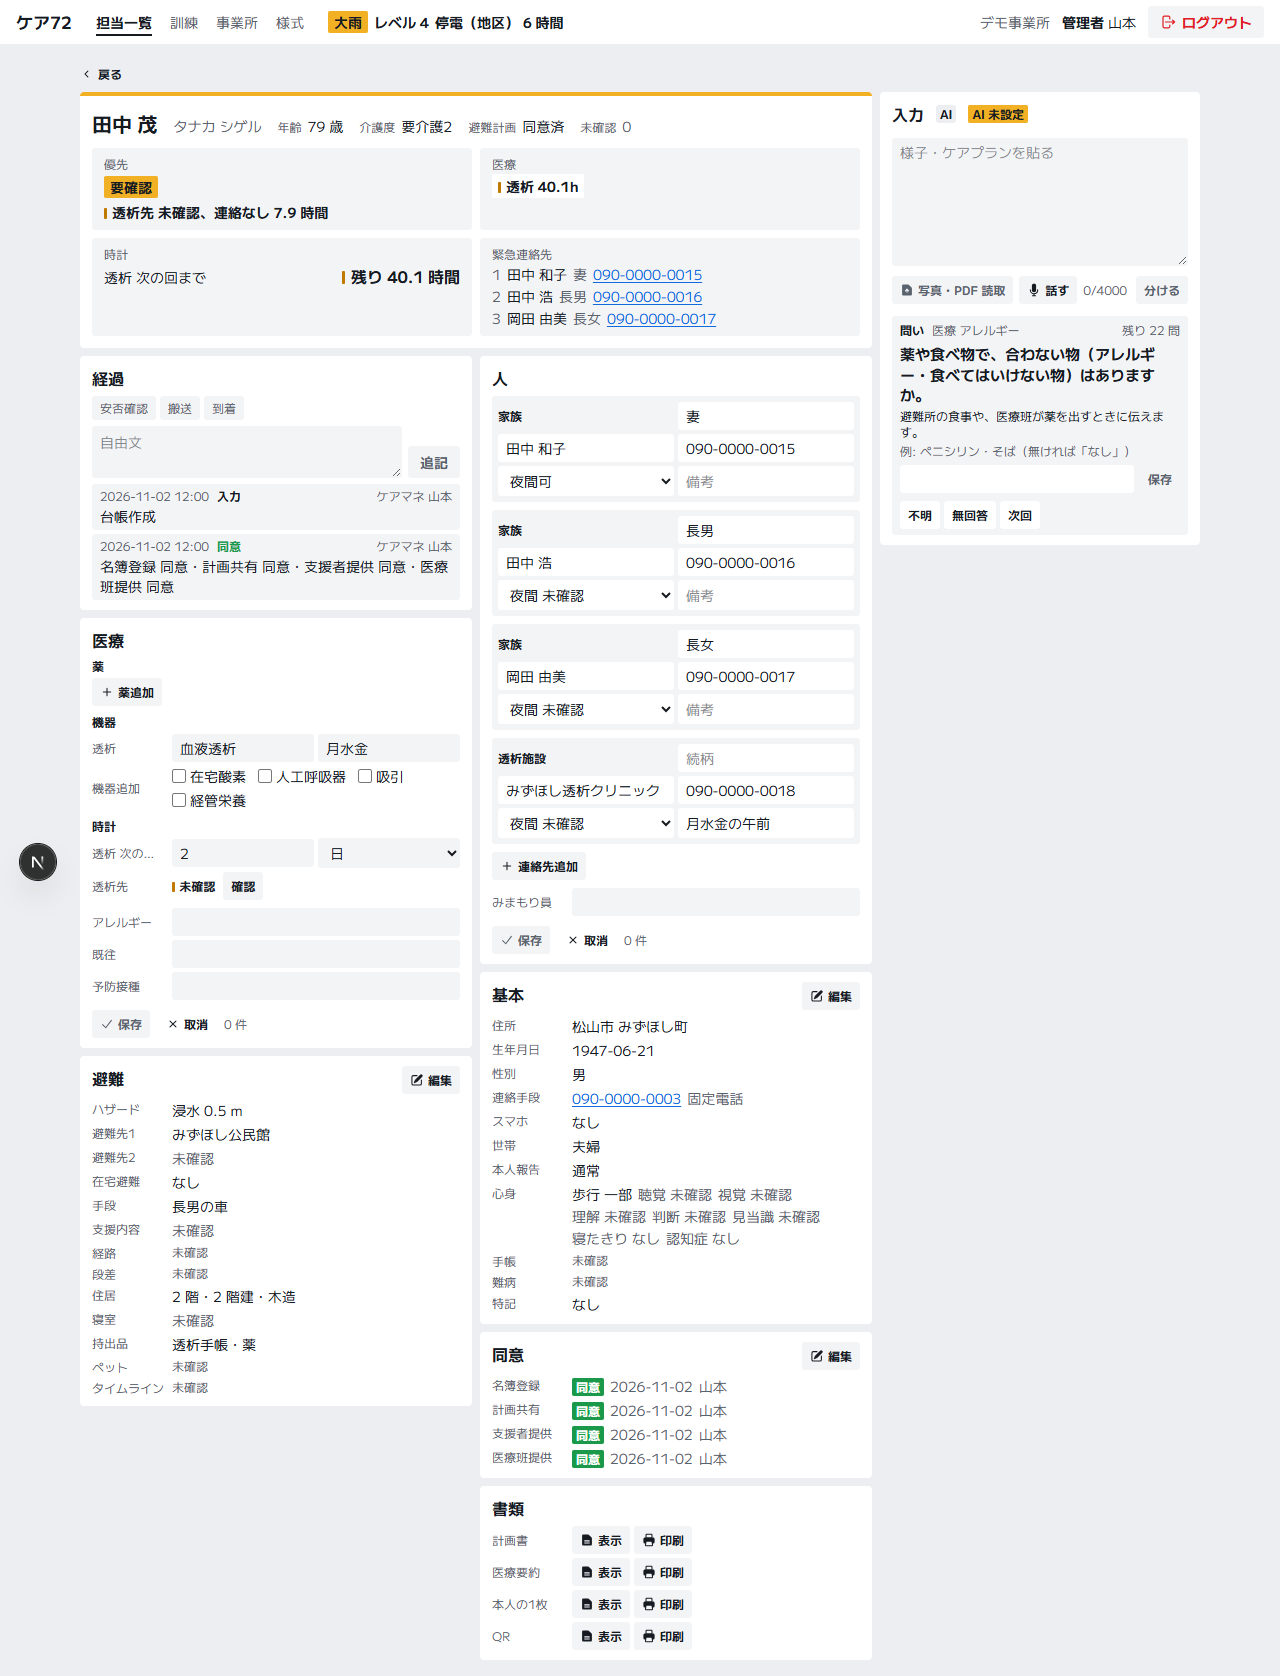
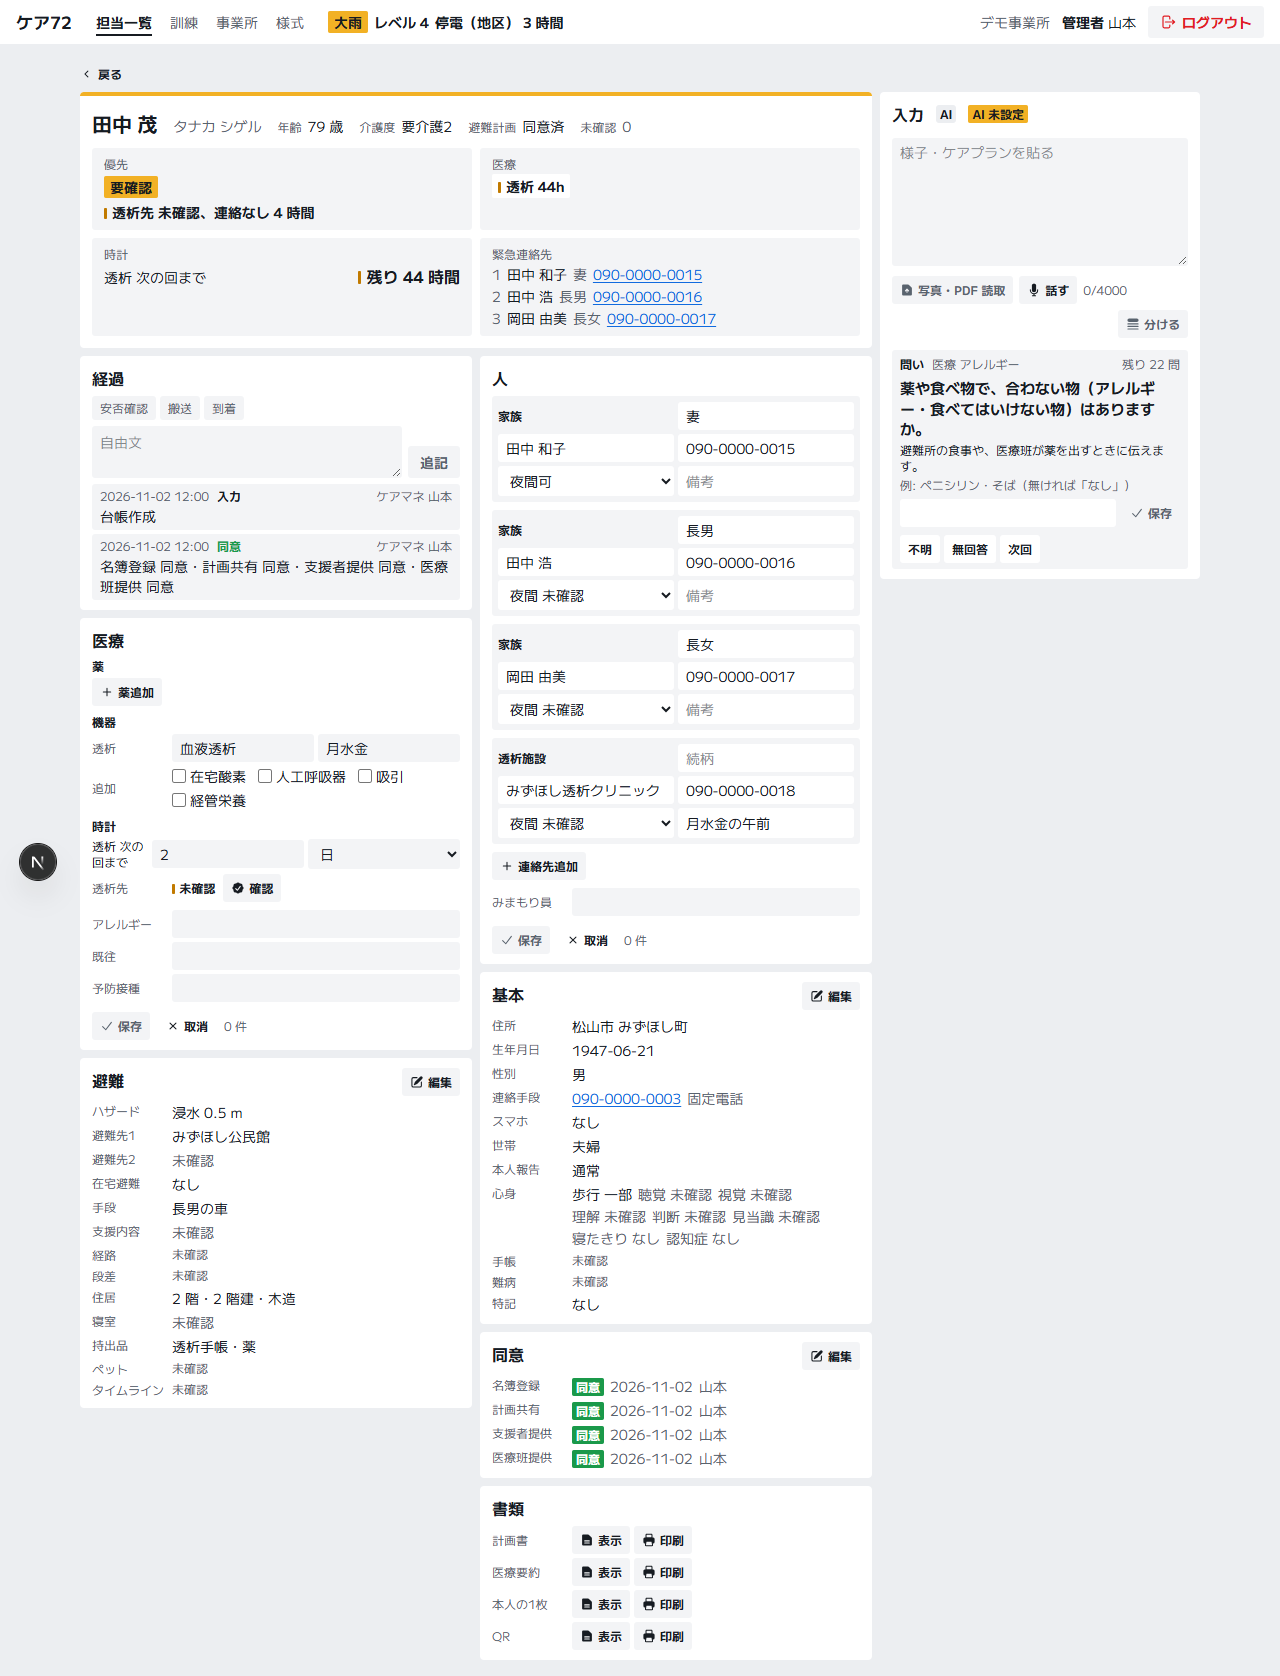
T45: 画面の見直し（screen-checker）の直し
保存の行を緑にしない（緑は無事の意味）、分ける・保存・再試行・確認にアイコン、「確認取消」、追加の欄の見出しを短く、
「台帳」を画面に出さない言葉に。時計の名前を折り返す。絵を撮り直した。

diff --git a/components/person/Intake.tsx b/components/person/Intake.tsx
@@ -23,11 +23,11 @@ import { changeText, type IntakeChange } from "@/lib/intake/changes";
 import type { DiffItem } from "@/lib/intake/diff";
 import { INTAKE_SECTIONS } from "@/lib/intake/fields";
 import type { IntakeProps } from "@/lib/intake/props";
-import { MicIcon, ReadFileIcon, StopIcon } from "./icons";
+import { MicIcon, ReadFileIcon, RetryIcon, SplitIcon, StopIcon } from "./icons";
 import { isError, postForm, postJson } from "./intake-api";
 import { IntakeChanges, rowsOf, type ChangeRow } from "./IntakeChanges";
 import { IntakeQuestion, QuestionText } from "./IntakeQuestion";
-import { BTN_IN, INPUT } from "./intake-ui";
+import { INPUT } from "./intake-ui";
 import { AiMark, StateTag, type Level } from "./parts";
 
 /** 入力の文の長さの上限（lib/intake/extract.ts の INTAKE_TEXT_MAX と同じ） */
@@ -248,7 +248,7 @@ export function Intake(props: IntakeProps & { level: Level }) {
           <span className="text-xs text-muted tabular-nums">
             {text.length}/{TEXT_MAX}
           </span>
-          <Button type="submit" kind="main" size="sm" className="ml-auto" disabled={working || listening || !aiReady || text.trim() === ""} data-intake="split">
+          <Button type="submit" kind="main" size="sm" icon={SplitIcon} className="ml-auto" disabled={working || listening || !aiReady || text.trim() === ""} data-intake="split">
             {INTAKE_LABELS.split}
           </Button>
         </div>
@@ -361,7 +361,7 @@ export function LogBubble({ entry: e, props, busy, aiReady, onRows, onSave, onDi
     case "app":
       return (
         <Bubble who="app">
-          <span className={e.tone === "danger" ? "font-bold text-danger" : e.tone === "ok" ? "font-bold text-state-ok" : "text-muted"}>{e.text}</span>
+          <span className={e.tone === "danger" ? "font-bold text-danger" : e.tone === "ok" ? "font-bold" : "text-muted"}>{e.text}</span>
         </Bubble>
       );
     case "ask":
@@ -379,9 +379,9 @@ export function LogBubble({ entry: e, props, busy, aiReady, onRows, onSave, onDi
               <span className="font-bold text-danger">{e.label}</span>
               {e.reason && <span className="text-xs font-bold">{AI_FAIL_REASON_LABELS[e.reason]}</span>}
               {e.retry && (
-                <button type="button" className={`${BTN_IN} ml-auto`} data-press disabled={busy || !aiReady} onClick={() => onRetry(e.retry!)}>
+                <Button kind="plainIn" size="sm" icon={RetryIcon} className="ml-auto" disabled={busy || !aiReady} onClick={() => onRetry(e.retry!)}>
                   {INTAKE_LABELS.retry}
-                </button>
+                </Button>
               )}
             </div>
           </Bubble>

diff --git a/components/person/IntakeQuestion.tsx b/components/person/IntakeQuestion.tsx
@@ -6,6 +6,8 @@
 // 「不明」「無回答」は空欄の理由として残し、「次回」はこの回は飛ばして未聴取として残す（どれも計画に「未確認」）。
 
 import { useState } from "react";
+import { SaveIcon } from "@/components/ui/Icon";
+import { SplitIcon } from "./icons";
 import type { PendingStatus } from "@/lib/db/types";
 import { CLOCK_UNIT_LABELS, INTAKE_LABELS, PENDING_STATUS_LABELS, SECTION_LABELS } from "@/lib/labels";
 import { answerChanges, type AnswerInput } from "@/lib/intake/answer";
@@ -89,6 +91,7 @@ function QuestionBody({ q, left, busy, aiReady, onAnswer, onSkip, onFree }: Omit
               ))}
             </div>
             <button type="button" className={BTN_MAIN} data-press="overlay" disabled={busy || picked.length === 0} onClick={() => submit({ kind: "choice", values: picked })}>
+              <SaveIcon aria-hidden className="size-3.5 shrink-0" />
               {INTAKE_LABELS.save}
             </button>
           </div>
@@ -120,7 +123,8 @@ function QuestionBody({ q, left, busy, aiReady, onAnswer, onSkip, onFree }: Omit
           {a.kind === "clock" && <span className="shrink-0 text-sm">{CLOCK_UNIT_LABELS[a.unit]}</span>}
           {a.kind === "int" && a.unit && <span className="shrink-0 text-sm">{a.unit}</span>}
           <button type="submit" className={`${BTN_MAIN} shrink-0`} data-press="overlay" disabled={busy || value.trim() === ""}>
-            {INTAKE_LABELS.save}
+            <SaveIcon aria-hidden className="size-3.5 shrink-0" />
+              {INTAKE_LABELS.save}
           </button>
         </form>
       )}
@@ -144,6 +148,7 @@ function QuestionBody({ q, left, busy, aiReady, onAnswer, onSkip, onFree }: Omit
           )}
           <div className="flex gap-1">
             <button type="button" className={BTN_MAIN} data-press="overlay" disabled={busy || picked.length === 0} onClick={() => submit({ kind: "night", contactIds: picked })}>
+              <SaveIcon aria-hidden className="size-3.5 shrink-0" />
               {INTAKE_LABELS.save}
             </button>
             {a.contacts.length > 0 && (
@@ -165,6 +170,7 @@ function QuestionBody({ q, left, busy, aiReady, onAnswer, onSkip, onFree }: Omit
         >
           <textarea className={INPUT} rows={2} value={value} onChange={(e) => setValue(e.target.value)} aria-label={q.label} disabled={!aiReady} />
           <button type="submit" className={BTN_MAIN} data-press="overlay" disabled={busy || !aiReady || value.trim() === ""}>
+            <SplitIcon aria-hidden className="size-3.5 shrink-0" />
             {INTAKE_LABELS.split}
           </button>
         </form>

diff --git a/components/person/SectionEdit.tsx b/components/person/SectionEdit.tsx
@@ -48,7 +48,7 @@ import {
 } from "@/lib/intake/edit";
 import { INTAKE_FIELDS } from "@/lib/intake/fields";
 import { FieldInput } from "./IntakeChanges";
-import { EditIcon } from "./icons";
+import { CheckIcon, EditIcon } from "./icons";
 import { isError, postJson } from "./intake-api";
 import { CHECK, INPUT, INPUT_IN } from "./intake-ui";
 import { StateText } from "./parts";
@@ -208,7 +208,7 @@ export function SectionForm({ section, data, draft, set }: FormProps) {
               </div>
             ))}
             <Checks
-              label={INTAKE_LABELS.addDevice}
+              label="追加"
               options={DEVICE_KINDS.filter((k) => !draft.devices.some((d) => d.kind === k)).map((k) => ({ value: k, label: DEVICE_LABELS[k] }))}
               picked={draft.newDevices}
               onChange={(v) => set({ newDevices: v as EditDraft["newDevices"] })}
@@ -256,6 +256,7 @@ export function SectionForm({ section, data, draft, set }: FormProps) {
                         </StateText>
                         <Button
                           size="sm"
+                          icon={check === "confirmed" ? CloseIcon : CheckIcon}
                           onClick={() => set({ checks: { ...draft.checks, [k.id]: (check === "confirmed" ? "unconfirmed" : "confirmed") as CheckStatus } })}
                         >
                           {check === "confirmed" ? INTAKE_LABELS.checkOff : INTAKE_LABELS.checkOn}
@@ -291,7 +292,7 @@ export function SectionForm({ section, data, draft, set }: FormProps) {
               </div>
             ))}
             <Checks
-              label={INTAKE_LABELS.addHazard}
+              label="追加"
               options={HAZARD_KINDS.filter((k) => !draft.hazards.some((h) => h.kind === k)).map((k) => ({ value: k, label: HAZARD_LABELS[k] }))}
               picked={draft.newHazards}
               onChange={(v) => set({ newHazards: v as EditDraft["newHazards"] })}
@@ -372,7 +373,7 @@ function Checks({
   if (options.length === 0) return null;
   return (
     <div className={ROW}>
-      <span className={SUB}>{label}追加</span>
+      <span className={SUB}>{label}</span>
       <div className="flex flex-wrap gap-x-3 gap-y-1">
         {options.map((o) => (
           <label key={o.value} className="inline-flex items-center gap-1 text-sm">

diff --git a/lib/labels.ts b/lib/labels.ts
@@ -381,7 +381,7 @@ export const INTAKE_LABELS = {
   sectionEdit: "編集",
   /** 時計の頼り先の確認（確認済にする・未確認に戻す） */
   checkOn: "確認",
-  checkOff: "未確認へ",
+  checkOff: "確認取消",
   addContact: "連絡先追加",
   addHazard: "ハザード",
   addDevice: "機器",
@@ -392,7 +392,7 @@ export const INTAKE_SAYS = {
   /** 「7 項目に分けました（医療 3・連絡先 2・避難 2）」 */
   split: (n: number, parts: string) => `${n} 項目に分けました${parts ? `（${parts}）` : ""}`,
   /** 分ける物が無かった */
-  none: "台帳の欄に入る事が見つかりませんでした",
+  none: "本人のページに入る事は見つかりませんでした",
   /** 写真・PDF を読んだ（「お薬手帳.jpg を読みました」） */
   read: (name: string) => `${name} を読みました`,
   saved: (n: number) => `${n} 件を保存しました`,

diff --git a/lib/intake/edit.test.ts b/lib/intake/edit.test.ts
@@ -146,7 +146,7 @@ describe("入れる欄の画面（components/person/Intake.tsx、T45）", () => 
       { section: "basic", change: null },
     ] as unknown as DiffItem[];
     expect(splitSay(items)).toBe("3 項目に分けました（医療 2・避難 1）");
-    expect(splitSay([])).toBe("台帳の欄に入る事が見つかりませんでした");
+    expect(splitSay([])).toBe("本人のページに入る事は見つかりませんでした");
     const props = intakePropsOf(seedRows(seed("p-04")), true);
     const render = (entry: LogEntry) =>
       renderToStaticMarkup(

diff --git a/components/person/icons.ts b/components/person/icons.ts
@@ -2,6 +2,9 @@
 // 共通の部品は別の作業（T44）が直しているので、ここに置いた。取り込んだあとに components/ui/Icon.tsx へ移してよい。
 
 export {
+  ArrowPathIcon as RetryIcon, // 再試行
+  CheckBadgeIcon as CheckIcon, // 頼り先を確認済にする
+  QueueListIcon as SplitIcon, // 分ける（文を台帳の欄に分ける）
   DocumentArrowUpIcon as ReadFileIcon, // 写真・PDF を選んで読ませる
   MicrophoneIcon as MicIcon, // 話す
   PencilSquareIcon as EditIcon, // 面の編集
